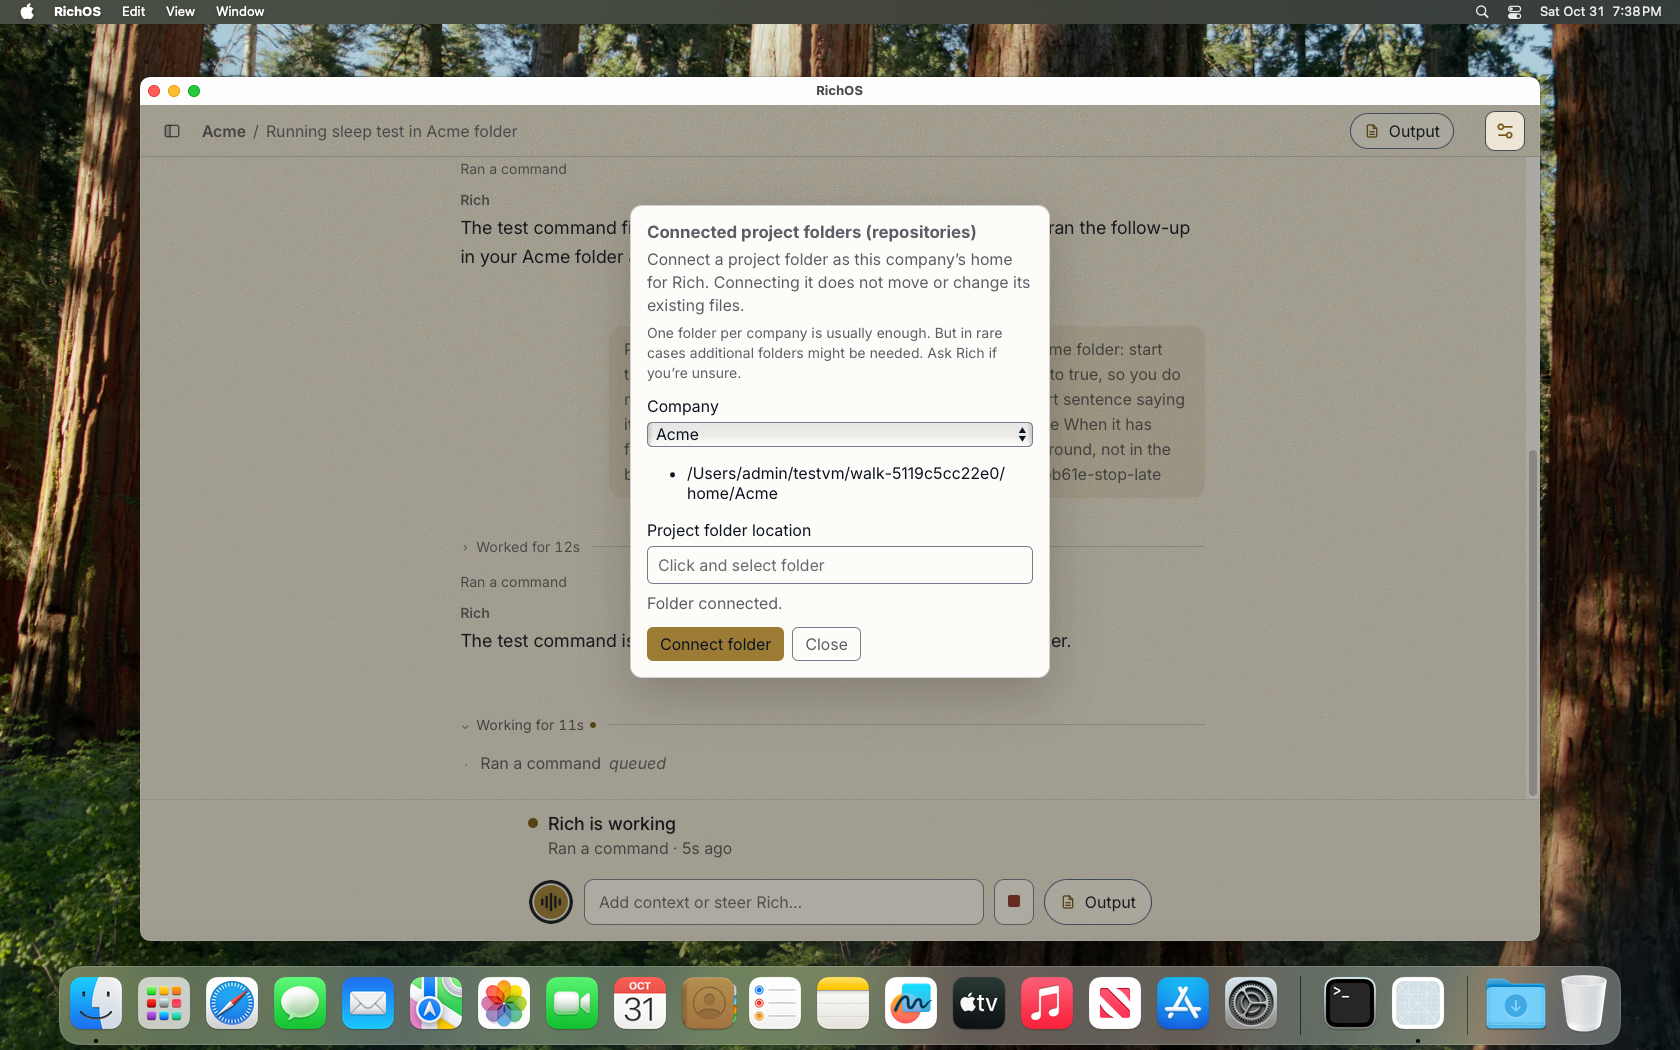
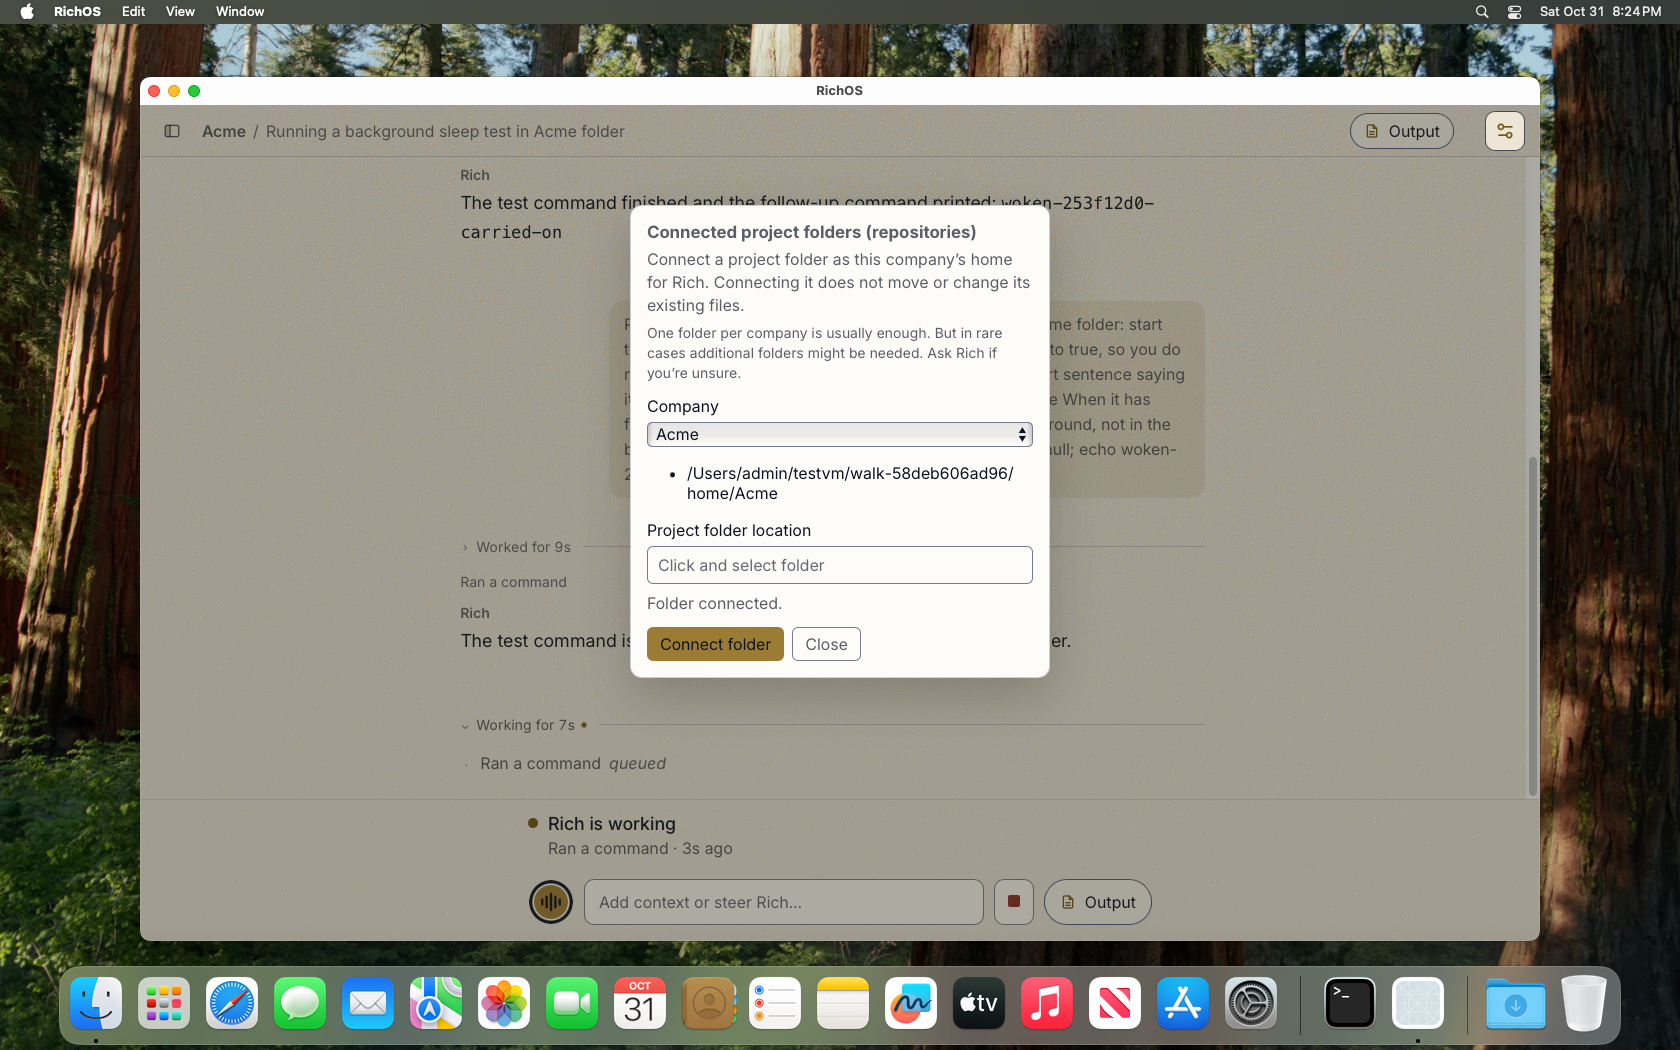
Woken-turn walk record: the 2b19585de run, both steps passing on the app as handed over

diff --git a/docs/verification/2026-10-31-woken-turn-walk/README.md b/docs/verification/2026-10-31-woken-turn-walk/README.md
@@ -7,35 +7,38 @@ app it must be a visible app turn, with Rich's words in the conversation and a w
 
 ## What ran
 
-- **App:** `richos/app/scripts/testvm/branch-bundle.sh` at `7d7c670e4`, pinned to nightly 82's
-  engine (1.2.0, sha256 `5da46847…64508`). The running app reported
-  `built_from: 7d7c670e4885bb07965d1cef3bf61b9b4e03a7a9` (identity step).
+- **App:** `richos/app/scripts/testvm/branch-bundle.sh` at `2b19585de` (the app as handed over:
+  the continued turn carries his request's authority), pinned to nightly 82's engine (1.2.0,
+  sha256 `5da46847…64508`). The running app reported
+  `built_from: 2b19585de9734be978ffbc301a59254658dd294e` (identity step).
 - **Engine in the guest:** this branch's tracked `richos/engine` (`git archive`) with nightly 82's
   `engine/runtime`, because `make-engine-asset.sh` refused nightly 82's runtime for this branch's
   newer runtime recipe and no runtime built from that recipe is on this Mac.
 - **Scenario:** `richos/app/scripts/testvm/woken-turn-walk.py` under `run-walk.py`, one guest run of
-  317 s ending 19:38Z, exit 0: identity, first-run, connect, task, woken and stop all PASS.
+  270 s ending 20:25Z, exit 0: identity, first-run, connect, task, woken and stop all PASS. The run
+  before it, on the same build, failed only its stop step: Rich's follow-up was `sleep 600`, which
+  Claude Code itself refuses to run in the foreground ("Blocked: sleep 600 followed by ..."), so
+  the walk's follow-up is now a `ping` of the same length.
 
 ## Result
 
-**woken.** Rich was asked to start `sleep 40; echo woken-160bb61e-done` in the background
-himself, end his turn and run `echo woken-160bb61e-carried-on` when it finished. In his own
+**woken.** Rich was asked to start `sleep 40; echo woken-253f12d0-done` in the background
+himself, end his turn and run `echo woken-253f12d0-carried-on` when it finished. In his own
 session, in this order: the background launch, the end of his turn, then a Bash run of his that
-printed `woken-160bb61e-carried-on`, not refused. No tool result in the guest carries "This app
+printed `woken-253f12d0-carried-on`, not refused. No tool result in the guest carries "This app
 turn is stopped or is supplying context". His completed turns in the ledger since the send:
 
 1. "The test command is now running in the background in your Acme folder."
-2. "The test command finished and printed `woken-160bb61e-done`. I then ran the follow-up in
-   your Acme folder and it printed `woken-160bb61e-carried-on`."
+2. "The test command finished and the follow-up command printed: `woken-253f12d0-carried-on`"
 
 The second is the turn Claude Code started for the finished command, adopted as an app turn: it
-is in the conversation (`woken.png` and the top of `stop-shown.png`).
+is in the conversation (`woken.png` and the top of `stopped.png`).
 
-**stop.** The same, with a long foreground follow-up (`sleep 600; echo woken-160bb61e-stop-late`).
-Once his session had started it, the screen showed "Rich is working" and the Stop button
-(`stop-shown.png`). The walk pressed Stop. The ledger then recorded a turn stopped after the press,
-the screen says "You stopped after 14s" with the composer back to "Talk to Rich..."
-(`stopped.png`) and `woken-160bb61e-stop-late` was never printed.
+**stop.** The same, with a long foreground follow-up (`ping -c 600 127.0.0.1 > /dev/null; echo
+woken-253f12d0-stop-late`). Once his session had started it, the screen showed Rich working and
+the Stop button (`stop-shown.png`). The walk pressed Stop. The ledger then recorded a turn stopped
+after the press, the screen says "You stopped after 9s" with the composer back to "Talk to
+Rich..." (`stopped.png`) and `woken-253f12d0-stop-late` was never printed.
 
 The "Connected project folders" panel over the conversation in the screenshots is left open by
 the connect step; it is not part of this check.
